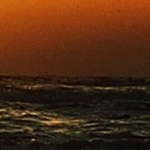
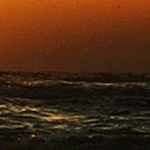
WIP

diff --git a/generate.go b/generate.go
@@ -33,7 +33,7 @@ func main() {
 
 			// Crop the image
 			x := ((i+1) * 76.0) + (i * 150.0)
-			y := 192.0 + (j * 150.0) + (j * 118.0)
+			y := 192.0 + (j * 150.0) + (j * 119.0)
 			cropArg := fmt.Sprintf("crop=150:150:%d:%d", x, y)
 			cmd = exec.Command("ffmpeg", "-i", "wallpaper_scaled.png", "-vf", cropArg, fileName)
 			var stderr bytes.Buffer
